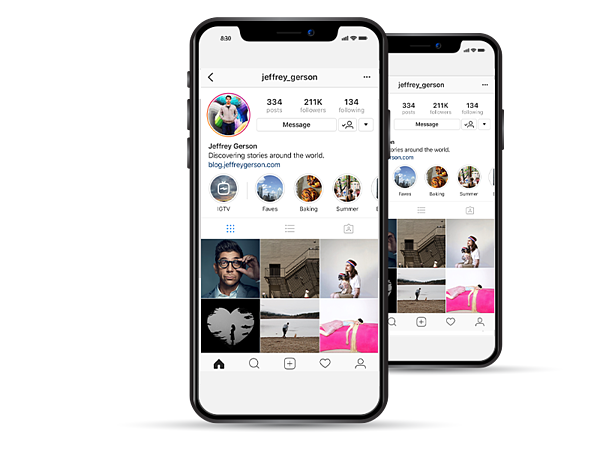
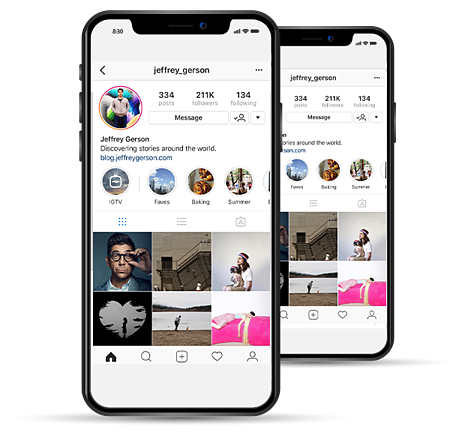
Login page completed

diff --git a/index.html b/index.html
@@ -7,9 +7,11 @@
     <title>Instagram</title>
     <!-- CSS only -->
     <link href="https://cdn.jsdelivr.net/npm/bootstrap@5.2.0/dist/css/bootstrap.min.css" rel="stylesheet" integrity="sha384-gH2yIJqKdNHPEq0n4Mqa/HGKIhSkIHeL5AyhkYV8i59U5AR6csBvApHHNl/vI1Bx" crossorigin="anonymous">
+    <link rel="stylesheet" href="https://cdnjs.cloudflare.com/ajax/libs/font-awesome/6.1.2/css/all.min.css">
     <link rel="stylesheet" href="assets/css/style.css">
 </head>
 <body>
+    <!-- Preloader -->
     <div class="preloader">
         <div class="preloader-main">
             <div class="logo text-center">
@@ -23,50 +25,111 @@
             </div>
         </div>
     </div>
+    <!-- Preloader end -->
 
+    <!-- Login page -->
     <section>
-        <div class="container-fluid main-section mt-3">
+        <div class="container main-section mt-3">
             <div class="row">
                 <div class="col-md-6 login-img">
                     <div class="image">
-                        <img src="assets/img/instadevice.png" width="780" height="auto" alt="">
+                        <img src="assets/img/instadevice.png" width="650" height="auto" alt="phone image">
                     </div>
                 </div>
                 <div class="col-md-6 login-form">
                     <div class="form-section">
                         <div class="header text-center">
-                            <img src="assets/img/logo.png" width="200" height="auto" alt="">
+                            <img src="assets/img/logo.png" width="180" height="auto" alt="instagram logo">
                         </div>
-                        <form action="" class="mt-5">
-                            <div class="form-group">
+                        <!-- Login form -->
+                        <form action="" class="mt-5 text-center">
+                            <div class="form-group d-flex justify-content-center">
                                 <input type="text" placeholder="Phone number, username, or email" class="form-control">
                             </div>
-                            <div class="form-group">
+                            <div class="form-group d-flex justify-content-center">
                                 <input type="password" placeholder="Password" class="form-control">
                             </div>
                             <div class="login-btn">
                                 <input type="submit" value="Log in" class="btn btn-primary btn-sm">
                             </div>
                         </form>
+                        <!-- Login form end -->
 
-                        <div class="alternative d-flex justify-content-center align-items-center">
-                            <hr class="login-hr">
+                        <div class="alternative d-flex justify-content-between align-items-center mt-3">
+                            <div class="line"></div>
                             <p>OR</p>
-                            <hr class="login-hr">
+                            <div class="line"></div>
                         </div>
-                        <div class="socials">
-                            <p><i ></i> Log in with Facebook</p>
-                            <p>Forgot password</p>
+                        <div class="socials text-center">
+                            <p class="d-flex align-items-center justify-content-center"><i class="fa-brands fa-square-facebook"></i> <span>Log in with Facebook</span></p>
+                            <a href="">Forgot password?</a>
                         </div>
                     </div>
-                    <div class="form-section">
+                    <div class="form-section d-flex justify-content-center align-items-center">
                         <p>Don't have an account? <a href="">Sign up</a></p>
+                    </div>
+                    <!-- Download buttons -->
+                    <div class="form-section download-area text-center">
+                        <p>Get the app.</p>
+                        <div class="stores">
+                            <a href=""><img src="assets/img/as.png" alt="app store"></a>
+                            <a href=""><img src="assets/img/gp.png" alt="play store"></a>
+                        </div>
                     </div>
                 </div>
             </div>
-        </div>
 
+            <!-- Footer -->
+            <div class="footer mt-5">
+                <div class="footer-links text-center">
+                    <ul>
+                        <li><a href="#">Meta</a></li>
+                        <li><a href="#">About</a></li>
+                        <li><a href="#">Blog</a></li>
+                        <li><a href="#">Jobs</a></li>
+                        <li><a href="#">Help</a></li>
+                        <li><a href="#">API</a></li>
+                        <li><a href="#">Privacy</a></li>
+                        <li><a href="#">Terms</a></li>
+                        <li><a href="#">Top Accounts</a></li>
+                        <li><a href="#">Hashtags</a></li>
+                        <li><a href="#">Locations</a></li>
+                        <li><a href="#">Instagram Lite</a></li>
+                        <li><a href="#">Contact Uploading & Non-Users</a></li>
+                    </ul>
+                    <ul>
+                        <li><a href="#">Dance</a></li>
+                        <li><a href="#">Food & Drink</a></li>
+                        <li><a href="#">Home & Garden</a></li>
+                        <li><a href="#">Music</a></li>
+                        <li><a href="#">Visual Arts</a></li>
+                    </ul>
+                </div>
+                <div class="lang-x-copywrite text-center mb-5 d-flex justify-content-center align-items-center">
+                    <div class="lang d-flex justify-content-center align-items-center">
+                        <select name="" id="">
+                            <option value="English">English</option>
+                            <option value="Francais">Francais</option>
+                            <option value="Espagnol">Espagnol</option>
+                            <option value="Igbo">Igbo</option>
+                            <option value="Yoruba">Yoruba</option>
+                            <option value="Hausa">Hausa</option>
+                            <option value="Chinese">Chinese</option>
+                            <option value="Twi">Twi</option>
+                            <option value="Fongbe">Fongbe</option>
+                            <option value="Potugues">Potugues</option>
+                        </select>
+                        <i class="fa-solid fa-angle-down"></i>
+                    </div>
+                    <div class="copywrite">
+                        <p>&copy; <script>document.write(new Date().getFullYear());</script> Instagram from Meta</p>
+                    </div>
+                </div>
+            </div>
+            <!-- Footer End -->
+        </div>
     </section>
+    <!-- Login page end -->
 
 
     <script src="assets/js/jquery-2.2.4.min.js"></script>

diff --git a/assets/css/style.css b/assets/css/style.css
@@ -1,4 +1,6 @@
-
+:root {
+    --grey: rgb(159, 159, 159);
+}
 /* Preloader */
 .preloader {
     background-color: #fff;
@@ -27,28 +29,168 @@ body {
     background: rgb(249, 249, 249);
 }
 
-.login-form .form-section{
-    margin-left: 50px;
-    margin-top: 97px;
-    background: #fff;
-    border: 1px solid rgb(216, 216, 216);
-    padding: 25px;
-    width: 70%;
+a {
+    text-decoration: none;
 }
 
-.login-hr{
-    background: rgb(216, 216, 216) !important;
+.login-form .form-section{
+    margin-left: 20px;
+    margin-top: 27px;
+    background: #fff;
+    border: 1px solid rgb(227, 227, 227);
+    padding: 45px 40px 15px 40px;
+    max-width: 340px;
+}
+
+.login-form .form-section:nth-child(2){
+    margin-top: 10px;
+    padding: 0px;
+}
+
+.login-form .form-section:nth-child(2) p {
+    font-size: 14px;
+    padding: 4px;
+    margin-top: 15px;
+}
+
+.login-form .form-section:nth-child(2) a {
+    font-weight: 500;
+    color: rgb(31, 155, 244);
+}
+
+.login-form .form-section:nth-child(3) {
+    padding: 0px;
+    background: transparent;
+    border: none;
+    margin-top: 14px;
+}
+
+.login-form .form-section .header{
+    margin-bottom: -20px;
 }
 
 input.form-control{
-    background:rgb(253, 253, 253);
-    width: 80%;
+    background:rgb(251, 251, 251);
     margin-top: 8px;
     border-radius: 2px;
-}
-input[type="text"]::placeholder{
     font-size: 12px;
+    color: var(--grey);
+    padding: 9px 6px 9px 6px;
 }
+
+input.form-control:focus, 
+input.form-control:active {
+    box-shadow: none;
+    border: 1px solid rgb(148, 148, 148);
+}
+
+input[type="text"]::placeholder,
 input[type="password"]::placeholder{
     font-size: 12px;
+    color: var(--grey);
+}
+
+.btn {
+    background: rgb(162, 221, 255);
+    border: none;
+    width: 100%;
+    margin-top: 15px;
+}
+
+.btn:hover {
+    background: rgb(162, 221, 255);
+}
+
+.alternative .line {
+    width: 100px;
+    height: 1px;
+    background: rgb(210, 210, 210);
+    margin-top: -19px;
+}
+
+.alternative p {
+    font-size: 14px;
+    color: var(--grey);
+    font-weight: bold;
+}
+
+.socials p{
+    color: rgb(16, 61, 126);
+    font-size: 14px;
+    font-weight: 500;
+    margin-top: 5px;
+}
+
+.socials p i{
+    font-size: 18px;
+    margin-right: 8px;
+}
+
+.socials a {
+    color: rgb(16, 61, 126);
+    font-size: 12px;
+}
+
+.download-area {
+    font-size: 14px;
+}
+
+.download-area .stores img:nth-child(1) {
+    width: 134px;
+    height: auto;
+}
+
+.download-area .stores img:nth-child(2) {
+    width: 130px;
+    height: auto;
+}
+
+.footer-links ul li{
+    display: inline-block;
+    margin-left: 10px;
+}
+
+.footer-links ul:nth-child(2){
+    margin-top: -10px;
+}
+
+.footer-links ul li a {
+    color: rgb(141, 141, 141);
+    font-size: 13px;
+}
+
+.lang select {
+    appearance: none;
+    -webkit-appearance: none;
+    -moz-appearance: none;
+    background: transparent;
+    border: none;
+    color: rgb(141, 141, 141);
+    font-size: 13px;
+    cursor: pointer;
+}
+
+.lang-x-copywrite {
+    margin-top: -18px;
+}
+
+.lang select:focus,
+.lang select:active {
+    appearance: none;
+    -webkit-appearance: none;
+    -moz-appearance: none;
+    box-shadow: none;
+    background: transparent;
+}
+
+.lang i {
+    color: rgb(141, 141, 141);
+    font-size: 13px;
+}
+
+.copywrite p {
+    color: rgb(141, 141, 141);
+    font-size: 13px;
+    margin-top: 17px;
+    margin-left: 30px;
 }
